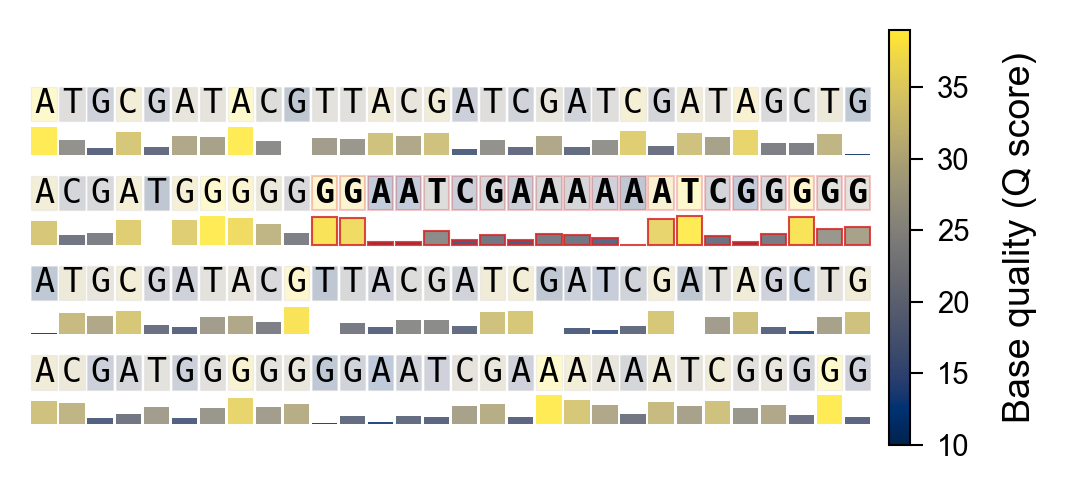
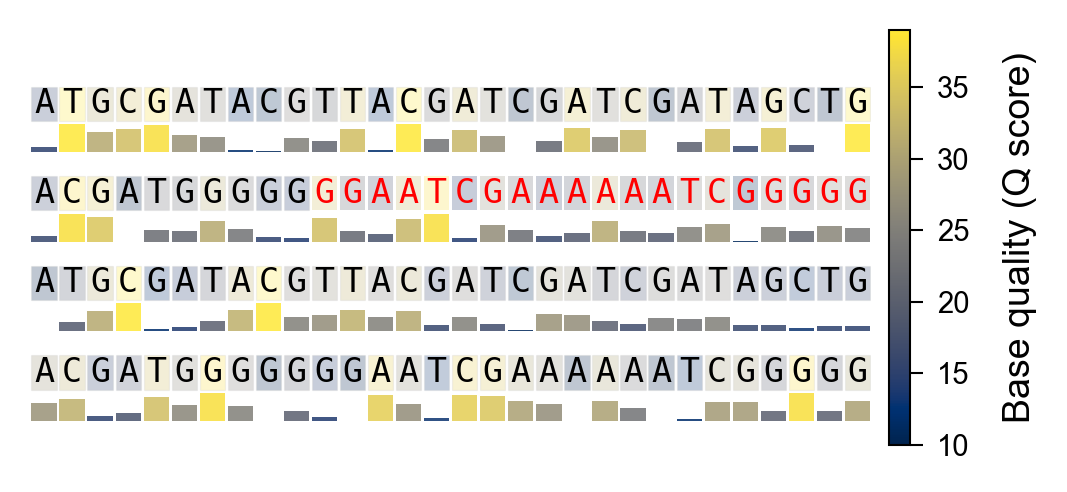
Refactor scripts for consistency and improve visualization parameters

Changed region(s): [[0.0309, 0.1524, 0.8351, 0.8841], [0.7423, 0.5488, 0.8351, 0.6098]]

diff --git a/scripts/transcipt_len.py b/scripts/transcipt_len.py
@@ -15,114 +15,138 @@ import polars as pl
 
 app = typer.Typer(context_settings={"help_option_names": ["-h", "--help"]})
 
+
 def get_transcript_lengths(
-    gtf_file: Path, 
+    gtf_file: Path,
     output_file: Path | None = None,
     gene_biotype: str | None = None,
     show_stats: bool = False,
-    max_only: bool = False
+    max_only: bool = False,
 ):
     """
     Calculate transcript lengths and genomic spans from a GTF file.
-    
+
     For each transcript, calculates:
     - transcript_length: sum of all exon lengths (spliced/mature transcript)
     - genomic_span: total span in genome including introns (end - start + 1)
     """
-    
+
     # Read GTF file and filter for exons
     df = read_gtf(gtf_file)
-    exons = df.filter(pl.col('feature') == 'exon')
-    
+    exons = df.filter(pl.col("feature") == "exon")
+
     # Show gene biotype statistics if requested
     if show_stats:
-        gene_info = df.filter(pl.col('feature') == 'gene')
-        if 'gene_biotype' in gene_info.columns:
-            biotype_counts = gene_info.group_by('gene_biotype').agg(
-                pl.count().alias('count')
-            ).sort('count', descending=True)
+        gene_info = df.filter(pl.col("feature") == "gene")
+        if "gene_biotype" in gene_info.columns:
+            biotype_counts = (
+                gene_info.group_by("gene_biotype")
+                .agg(pl.count().alias("count"))
+                .sort("count", descending=True)
+            )
             typer.echo("\n=== Gene Biotype Statistics ===")
             for row in biotype_counts.iter_rows(named=True):
                 typer.echo(f"{row['gene_biotype']}: {row['count']}")
             typer.echo(f"\nTotal genes: {gene_info.height}")
             typer.echo("================================\n")
-    
+
     # Filter by gene biotype if specified
     if gene_biotype:
-        if 'gene_biotype' in exons.columns:
-            exons = exons.filter(pl.col('gene_biotype') == gene_biotype)
+        if "gene_biotype" in exons.columns:
+            exons = exons.filter(pl.col("gene_biotype") == gene_biotype)
             typer.echo(f"Filtering for gene_biotype: {gene_biotype}")
         else:
             typer.echo("Warning: 'gene_biotype' column not found in GTF file", err=True)
-    
+
     # Calculate exon lengths and genomic span by transcript
     agg_cols = [
-        pl.col('exon_length').sum().alias('transcript_length'),
-        pl.col('gene_id').first(),
-        pl.col('gene_name').first(),
-        pl.col('seqname').first().alias('chromosome'),
-        pl.col('strand').first(),
-        pl.col('start').min().alias('genomic_start'),
-        pl.col('end').max().alias('genomic_end')
+        pl.col("exon_length").sum().alias("transcript_length"),
+        pl.col("gene_id").first(),
+        pl.col("gene_name").first(),
+        pl.col("seqname").first().alias("chromosome"),
+        pl.col("strand").first(),
+        pl.col("start").min().alias("genomic_start"),
+        pl.col("end").max().alias("genomic_end"),
     ]
-    
+
     # Include gene_biotype if available
-    if 'gene_biotype' in exons.columns:
-        agg_cols.append(pl.col('gene_biotype').first())
-    
-    transcript_lengths = exons.with_columns(
-        (pl.col('end') - pl.col('start') + 1).alias('exon_length')
-    ).group_by('transcript_id').agg(agg_cols).with_columns(
-        (pl.col('genomic_end') - pl.col('genomic_start') + 1).alias('genomic_span')
-    ).sort(['gene_id', 'transcript_id'])
-    
+    if "gene_biotype" in exons.columns:
+        agg_cols.append(pl.col("gene_biotype").first())
+
+    transcript_lengths = (
+        exons.with_columns((pl.col("end") - pl.col("start") + 1).alias("exon_length"))
+        .group_by("transcript_id")
+        .agg(agg_cols)
+        .with_columns(
+            (pl.col("genomic_end") - pl.col("genomic_start") + 1).alias("genomic_span")
+        )
+        .sort(["gene_id", "transcript_id"])
+    )
+
     if max_only:
         # Find maximum transcript length per gene
         gene_agg = [
-            pl.col('transcript_length').max().alias('max_transcript_length'),
-            pl.col('genomic_span').max().alias('max_genomic_span'),
-            pl.col('gene_name').first().alias('gene_name'),
-            pl.col('chromosome').first(),
-            pl.col('strand').first()
+            pl.col("transcript_length").max().alias("max_transcript_length"),
+            pl.col("genomic_span").max().alias("max_genomic_span"),
+            pl.col("gene_name").first().alias("gene_name"),
+            pl.col("chromosome").first(),
+            pl.col("strand").first(),
         ]
-        
+
         # Include gene_biotype if available
-        if 'gene_biotype' in transcript_lengths.columns:
-            gene_agg.append(pl.col('gene_biotype').first().alias('gene_biotype'))
-        
-        result = transcript_lengths.group_by('gene_id').agg(gene_agg).sort('gene_id')
+        if "gene_biotype" in transcript_lengths.columns:
+            gene_agg.append(pl.col("gene_biotype").first().alias("gene_biotype"))
+
+        result = transcript_lengths.group_by("gene_id").agg(gene_agg).sort("gene_id")
         typer.echo(f"Total genes processed: {result.height}")
     else:
         # Return all transcripts
         result = transcript_lengths
-        num_genes = result.select('gene_id').n_unique()
+        num_genes = result.select("gene_id").n_unique()
         typer.echo(f"Total transcripts: {result.height}, across {num_genes} genes")
 
     # Save to file or print to stdout
     if output_file:
-        result.write_csv(output_file, separator='\t')
+        result.write_csv(output_file, separator="\t")
         typer.echo(f"Results saved to {output_file}")
     else:
         for row in result.iter_rows(named=True):
             if max_only:
                 print(f"{row['gene_id']}\t{row['max_transcript_length']}")
             else:
-                print(f"{row['transcript_id']}\t{row['gene_id']}\t{row['transcript_length']}")
+                print(
+                    f"{row['transcript_id']}\t{row['gene_id']}\t{row['transcript_length']}"
+                )
+
 
 @app.command()
 def main(
     gtf_file: Path = typer.Argument(..., help="Path to the GTF file", exists=True),
-    output: Path | None = typer.Option(None, "--output", "-o", help="Output file path to save results as a TSV table"),
-    gene_biotype: str = typer.Option("protein_coding", "--biotype", "-b", help="Filter by gene biotype (e.g., 'protein_coding')"),
-    show_stats: bool = typer.Option(False, "--stats", "-s", help="Show gene biotype statistics"),
-    max_only: bool = typer.Option(False, "--max-only", "-m", help="Output only maximum transcript length per gene (default: all transcripts)")
+    output: Path | None = typer.Option(
+        None, "--output", "-o", help="Output file path to save results as a TSV table"
+    ),
+    gene_biotype: str = typer.Option(
+        "protein_coding",
+        "--biotype",
+        "-b",
+        help="Filter by gene biotype (e.g., 'protein_coding')",
+    ),
+    show_stats: bool = typer.Option(
+        False, "--stats", "-s", help="Show gene biotype statistics"
+    ),
+    max_only: bool = typer.Option(
+        False,
+        "--max-only",
+        "-m",
+        help="Output only maximum transcript length per gene (default: all transcripts)",
+    ),
 ):
     """
     Calculate transcript lengths and genomic spans from a GTF file.
-    
+
     By default, outputs all transcripts with their lengths grouped by gene.
     Use --max-only to get only the maximum transcript length per gene.
-    
+
     Output columns:
     - transcript_id: Ensembl transcript ID
     - gene_id: Ensembl gene ID
@@ -134,19 +158,20 @@ def main(
     - genomic_start: Start position in genome
     - genomic_end: End position in genome
     - gene_biotype: Gene biotype (if available)
-    
+
     Examples:
-    
+
     # Show statistics about gene types
     uv run script.py input.gtf --stats
-    
+
     # Get all transcript lengths for protein-coding genes
     uv run script.py input.gtf -o transcripts.tsv --biotype protein_coding
-    
+
     # Get maximum transcript length per gene only
     uv run script.py input.gtf -o max_lengths.tsv --biotype protein_coding --max-only
     """
     get_transcript_lengths(gtf_file, output, gene_biotype, show_stats, max_only)
+
 
 if __name__ == "__main__":
     app()

diff --git a/scripts/vis_seq_qual.py b/scripts/vis_seq_qual.py
@@ -21,7 +21,7 @@ def _plot_track_style(
 ):
     """Track style with sequence above and quality track below."""
     seq_y = -y_offset
-    qual_y = -y_offset - 0.9
+    qual_y = -y_offset - 0.85
 
     # Quality track as continuous area
     for j, (base, q) in enumerate(zip(line_seq, line_qual)):
@@ -38,7 +38,7 @@ def _plot_track_style(
             height=bar_height,
             facecolor=rect_color,
             edgecolor="#D62728" if in_adapter else "none",
-            linewidth=0.5 if in_adapter else 0,
+            linewidth=0 if in_adapter else 0,
             alpha=0.85,
             zorder=1,
         )
@@ -51,7 +51,7 @@ def _plot_track_style(
             height=base_height,
             facecolor=rect_color,
             edgecolor="#D62728" if in_adapter else "#CCCCCC",
-            linewidth=0.5 if in_adapter else 0.3,
+            linewidth=0 if in_adapter else 0.3,
             alpha=0.25,
             zorder=1,
         )
@@ -62,8 +62,9 @@ def _plot_track_style(
             seq_y,
             base,
             fontsize=font_size,
-            fontweight="bold" if in_adapter else "normal",
-            color="black",
+            # fontweight="bold" if in_adapter else "normal",
+            # color="black",
+            color="red" if in_adapter else "black",
             ha="center",
             va="center",
             family="monospace",
@@ -80,6 +81,9 @@ def plot_sequence_with_quality(
     cmap="cividis",
     letter_spacing=1.0,
     dpi=300,
+    BASE_FONT_SIZE = 8,
+    BASE_WIDTH_RATIO = 0.90,
+    BASE_HEIGHT_RATIO = 0.60,
 ):
     """
     Publication-quality visualization of nucleotide sequences with per-base quality scores.
@@ -119,10 +123,6 @@ def plot_sequence_with_quality(
     )
 
     # Constants for clean layout
-    BASE_FONT_SIZE = 8
-    BASE_WIDTH_RATIO = 0.90
-    BASE_HEIGHT_RATIO = 0.60
-
     def is_in_adapter(idx):
         return any(start <= idx < end for start, end in adapter_regions)
 

diff --git a/scripts/cal_internal.py b/scripts/cal_internal.py
@@ -13,6 +13,7 @@ from pathlib import Path
 
 app = typer.Typer(context_settings={"help_option_names": ["-h", "--help"]})
 
+
 @app.command()
 def cal_internal(
     fastq_file: Path,
@@ -24,7 +25,7 @@ def cal_internal(
     typer.echo("Reading FASTQ file...")
     internal_adapters = set()
     total_reads = 0
-    fastq = pyfastx.Fastx(fastq_file) 
+    fastq = pyfastx.Fastx(fastq_file)
 
     for read_name, _seq, _qual in fastq:
         total_reads += 1
@@ -34,6 +35,7 @@ def cal_internal(
 
     typer.echo(f"Total internal adapters: {len(internal_adapters)}")
     typer.echo(f"Total reads: {total_reads}")
+
 
 @app.command()
 def find(bam: Path):
@@ -46,6 +48,7 @@ def find(bam: Path):
     for read in bam:
         if "I" in read.query_name and not read.has_tag("SA"):
             print(read.query_name)
+
 
 if __name__ == "__main__":
     app()

diff --git a/scripts/merge_fq.py b/scripts/merge_fq.py
@@ -7,6 +7,7 @@ from pathlib import Path
 
 app = typer.Typer(context_settings={"help_option_names": ["-h", "--help"]})
 
+
 @app.command()
 def merge_fastq(
     fastq1: Path,
@@ -17,12 +18,12 @@ def merge_fastq(
     Merge two FASTQ files into one gzipped FASTQ file using pyfastx.
     """
     typer.echo(f"Merging {fastq1} and {fastq2} into {output_fq_gz}...")
-    with gzip.open(output_fq_gz, 'wt') as out_f:
-
+    with gzip.open(output_fq_gz, "wt") as out_f:
         for fq_path in [fastq1, fastq2]:
             fq_iter = pyfastx.Fastx(fq_path)
             for name, seq, qual in track(fq_iter, description="Merging FASTQ files..."):
                 out_f.write(f"@{name}\n{seq}\n+\n{qual}\n")
+
 
 if __name__ == "__main__":
     app()
